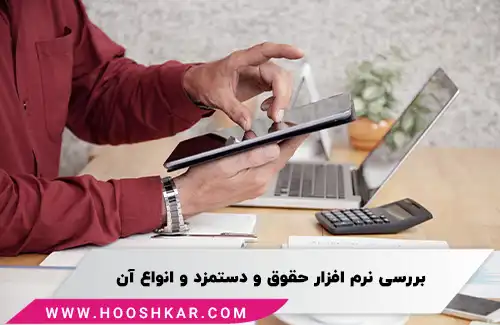
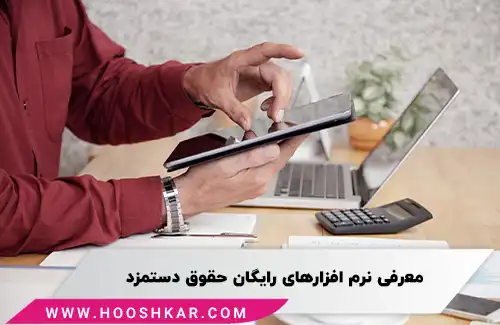
ویرایش محتوا و عکس ها + افزودن گیف

Changed region(s): [[0.21, 0.8308, 0.87, 0.8923]]

diff --git a/Financial/WhatIsPayroll/ReviewFreePaidVersionsPayrollSoftware.md b/Financial/WhatIsPayroll/ReviewFreePaidVersionsPayrollSoftware.md
@@ -1,8 +1,8 @@
 ---
-title: بررسی نسخه رایگان و پولی نرم افزارهای حقوق دستمزد
+title: معرفی برخی از نرم افزارهای حقوق دستمزد رایگان
 author: سمانه رشوند
-description: انتخاب بین نسخه رایگان یا پولی نرم افزار حقوق و دستمزد بستگی به نیازهای سازمان، تعداد کارمندان، میزان پیچیدگی محاسبات، و بودجه در دسترس دارد. مدیران باید با بررسی دقیق ویژگیها و هزینههای هر نسخه، مناسب ترین گزینه را برای سازمان خود انتخاب کنند تا از صرفهجویی در هزینهها و افزایش کارایی سیستم حقوق و دستمزد بهرهمند شوند.
-dateModified: 2024/05/27
+description: انتخاب نسخه حرفه ای یا رایگان نرم افزار های حقوق و دستمزد بستگی به نیازهای سازمان، تعداد کارمندان، میزان پیچیدگی محاسبات، و بودجه در دسترس دارد. مدیران می توانند با بررسی دقیق ویژگیها و هزینهها، مناسب ترین گزینه را برای سازمان خود انتخاب کنند.
+dateModified: 2024/05/28
 datePublished: 2022/10/30
 uid: Financial/WhatIsPayroll/ReviewFreePaidVersionsPayrollSoftware
 ---
@@ -11,60 +11,54 @@ uid: Financial/WhatIsPayroll/ReviewFreePaidVersionsPayrollSoftware
 <details>
   <summary>آنچه در این مطلب خواهید خواند:</summary>
   <ul>
-    <li>معرفی نرم افزارهای حقوق دستمزد (نسخه رایگان و پولی)</li>
-    <li>ویژگی نرم افزارهای حقوق و دستمزد رایگان</li>
-    <li>انواع نرم افزار حقوق و دستمزد پولی</li>
-    <li>لیست نرم افزار های حقوق و مزایای رایگان</li>
+    <li>لیست نرم افزارهای حقوق دستمزد رایگان</li>
+    <li>انواع نرم افزار های محاسبه حقوق و دستمزد پولی</li>
     <li>نتیجه گیری</li>
   </ul>
 </details>
 
 </blockquote>
 
-**مقدمه**
+![بررسی نرم افزار حقوق و دستمزد رایگان](./Images/AboutPayrollSoftware.webp)
 
-بدون شک کارکنان و نیروهای انسانی هر مجموعه، ارزشمندترین دارایی آن به شمار میآیند. چرا که با کمک نیروهای انسانی خوب، مجموعهها رشد و توسعه را تجربه میکنند. پس در نتیجه نگهداری و حفظ رضایت کارکنان، به نفع شرکت است و در این جهت باید اقداماتی انجام شود. یکی از این اقدامات مهم که هر مجموعه موظف است جهت جلب رضایت کارکنان خود انجام دهد، پرداخت به موقع حقوق آنهاست. 
+بدون شک کارکنان و نیروهای انسانی هر مجموعه، ارزشمندترین دارایی آن به شمار میآیند. چرا که با کمک نیروهای انسانی خوب، مجموعهها رشد و توسعه را تجربه میکنند. پس در نتیجه نگهداری و حفظ رضایت کارکنان، به نفع شرکت است و در این جهت باید اقداماتی انجام شود. 
 
-با کمک نرم افزارهای حقوق و دستمزد، این پروسه به راحتترین و بهترین شکل ممکن صورت میگیرد. اگر شما هم علاقهمندید با این نرم افزارها و همچنین تمام مباحث حقوق و دستمزد آشنا شوید، در این مقاله با ما همراه باشید.
+یکی از این اقدامات مهم که هر مجموعه موظف است جهت جلب رضایت کارکنان خود انجام دهد، پرداخت به موقع حقوق آنهاست. 
+با کمک نرم افزارهای حقوق و دستمزد، این پروسه به راحتترین و بهترین شکل ممکن صورت میگیرد.
 
 <blockquote style="background-color:#f5f5f5; padding:0.5rem">
 <p><strong>آشنایی با <a href="https://www.hooshkar.com/Software/Sayan/Module/Payroll" target="_blank">نرم افزار حقوق و دستمزد</a> سایان</strong></p></blockquote>
 
-## معرفی نرم افزارهای حقوق دستمزد (نسخه رایگان و پولی)
-مهم نیست که ابعاد کسب و کار شما کوچک است یا بزرگ. در هر صورت، با محاسبه و پرداخت حقوق و مزایای پرسنل سر و کار خواهید داشت. 
+## لیست نرم افزارهای حقوق دستمزد رایگان
+مهم نیست ابعاد کسب و کار شما کوچک است یا بزرگ، در نهایت، با محاسبه حقوق و مزایای پرسنل سر و کار خواهید داشت. در این راستا نرم افزارهای مختلفی بصورت رایگان و پولی وجود دارند. در ادامه به بررسی آنها میپردازیم.
 
-نرم افزارهای حقوق و دستمزد مختلفی بصورت رایگان و پولی وجود دارد که به کمک شما میآید. در ادامه به بررسی آنها میپردازیم.
-
-![بررسی نرم افزار حقوق و دستمزد و انواع آن](./Images/AboutPayrollSoftware.webp)
-
-### ویژگی نرم افزارهای حقوق و دستمزد رایگان
-یکی از متداولترین نرم افزارها جهت محاسبه مزایا، نوع رایگان آن است که قابل استفاده روی سیستم و گوشیهای همراه میباشد. 
-
-نرم افزار حقوق و دستمزد رایگان بر اساس مالیات، اقساط بیمه و اضافات مختلف، درآمد پرسنل شما را به صورت دقیق حساب میکند. 
-
+- چطور می توانیم به نرم افزارهای رایگان دسترسی داشته باشیم؟
 شما به راحتی میتوانید این نرم افزارهای رایگان را که توسط مجموعههای مختلف طراحی شده اند، از سایتهای معتبر دانلود کنید.
+اگر قصد دارید روی گوشی همراهتان این اپ کاربردی را داشته باشید، میتوانید به برنامه بازار یا سیب سری بزنید.
+- آیا نرم افزاری که کاملا رایگان باشد، وجود دارد؟ خیر
+- آیا دسترسی به امکانات نرم افزارهای رایگان نامحدود است؟ خیر، هیچ نرم افزار رایگانی، به شما دسترسی و امکانات کامل و گسترده را نخواهد داد.
 
-اگر قصد دارید روی گوشی همراهتان این اپ کاربردی را داشته باشید، میتوانید به برنامه بازار یا سیب سری بزنید. البته لازم به ذکر است که هیچ نرم افزار رایگانی، به شما دسترسی و امکانات کامل و گسترده را نخواهد داد.
+**نام برخی از نرم افزارهای رایگان + برخی از امکانات آنها:**
 
-### لیست نرم افزار های حقوق و مزایای رایگان
-
-![جدول نرم افزار های حقوق و دستمزد رایگان](./Images/FreePayrollSoftwareTable.webp)
+![لیست نرم افزار های حقوق و دستمزد رایگان](./Images/FreePayrollSoftwareTable.webp)
 
 ### انواع نرم افزار های محاسبه حقوق و دستمزد پولی
-نرم افزارهای غیر رایگان، به دو صورت در بازار موجود هستند:
+
+نیازها و منابع سازمانها تعیین میکنند که آنها باید به سراغ نرمافزارهای رایگان بروند یا برای تهیه نرمافزارهای تجاری و حرفهای، بودجهای را اختصاص دهند.
+
+نرم افزارهای حرفه ای و تخصصی، به دو صورت در بازار موجود هستند:
 
 **نوع اول،** نرم افزاری است که با پیشفرضهای خاص، برای مشاغل مختلف طراحی و ساخته شدهاست. شما میتوانید به راحتی نرم افزار را خریداری کنید و از کلیهی امکانات آن استفاده نمایید.
 
-**نوع دوم،** نرم افزارهایی هستند که به صورت اختصاصی برای شرکت شما طراحی میشوند. در هر زمان هم که نیاز داشته باشید، برنامهنویسان آمادهی توسعهی نرم افزار حقوق و دستمزد شما هستند.
+**نوع دوم،** نرم افزارهایی هستند که به صورت اختصاصی برای شرکت شما و با توجه به نیازهای شما شخصی سازی میشوند. در هر زمان هم که نیاز داشته باشید، برنامهنویسان آمادهی توسعهی نرم افزار شما هستند.
 
 <blockquote style="background-color:#f5f5f5; padding:0.5rem">
-<p><strong>بیشتر بخوانید: <a href="https://www.hooshkar.com/Wiki/Financial/TheBestPayrollSoftware" target="_blank">معرفی بهترین نرم افزارهای حقوق و دستمزد</a></p></strong></blockquote>
+<p><strong>بیشتر بخوانید: <a href="https://www.hooshkar.com/Wiki/Financial/TheBestPayrollSoftware" target="_blank">لیست بهترین نرم افزارهای حقوق و دستمزد</a></p></strong></blockquote>
 
 #### نتیجه گیری
 
 با توجه به توضیحاتی که در بخش بالا داده شد، میتوان نتیجه گرفت که مناسب ترین نرم افزار، نوع غیر رایگان آن است. چرا که با طراحی اختصاصی، تمام نیازهای شرکت شما رفع شده و با کمترین خطا و بالاترین سرعت، حقوق پرسنل محاسبه میگردد. 
 
-----
-آیا میخواهید یک نرمافزار حقوق و دستمزد کامل برای پرداختهای پرسنل شرکت خود داشته باشید؟ 
+<a href="https://www.hooshkar.com" target="_blank"><img src="./images/GifDemo.webp" alt="درخواست دموی رایگان" style="display: block; margin-left: auto; margin-right: auto;" title="دموی رایگان" caption="false" width="100%" height="100%"></a>
 
-با کلیک روی این <a href="https://www.hooshkar.com" target="_blank">لینک</a>، میتوانید امکانات و قابلیتهای نرمافزار حرفهای محاسبه حقوق دستمزد سایان را مشاهده کنید.
+از اینکه تا انتهای این مقاله با ما همراه بودید سپاسگذاریم. نظرات و سوالات خود را با ما به اشتراک بگذارید.

diff --git a/Financial/WhatIsPayroll/RedemptionOfLeaveAndNegativeLeave.md b/Financial/WhatIsPayroll/RedemptionOfLeaveAndNegativeLeave.md
@@ -21,7 +21,7 @@ uid: Financial/WhatIsPayroll/RedemptionOfLeaveAndNegativeleave
 
 **مقدمه**
 
-امروزه، مفهومهایی مانند مرخصی منفی و بازخرید مرخصی بهطور گسترده مورد بررسی قرار میگیرند. مرخصی منفی، یک واقعیت رایج است که در بین کارگران و کارمندان گسترش یافته است. از سوی دیگر، بازخرید مرخصی مفهومی است که کارگران میتوانند مانده مرخصی خود را به پول تبدیل کنند.
+مرخصی منفی، یک واقعیت رایج است که در بین کارگران و کارمندان گسترش یافته است. از سوی دیگر، بازخرید مرخصی مفهومی است که کارگران میتوانند مانده مرخصی خود را به پول تبدیل کنند.
 
 ابتدا به بررسی مفهوم مرخصی منفی و تفاوت آن با بازخرید مرخصی میپردازیم. سپس به محاسبه و تفسیر مانده مرخصی و روشهای محاسبه بازخرید مرخصی میپردازیم. این بررسیها به کمک مثالهای عملی توضیح داده میشود تا بهترین راهکار برای کارفرمایان و کارگران بیان شود.
 
